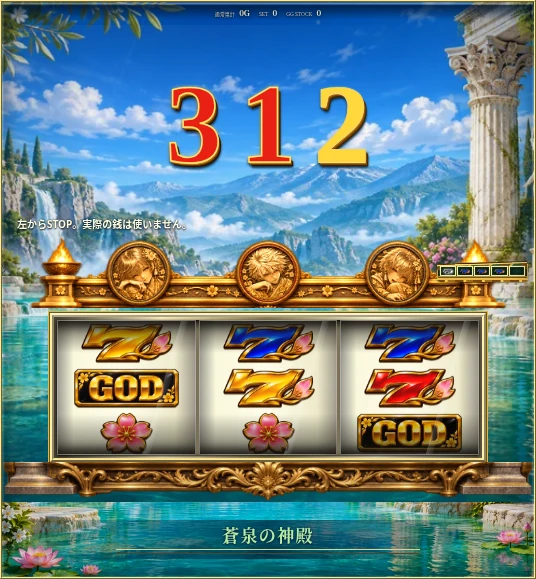
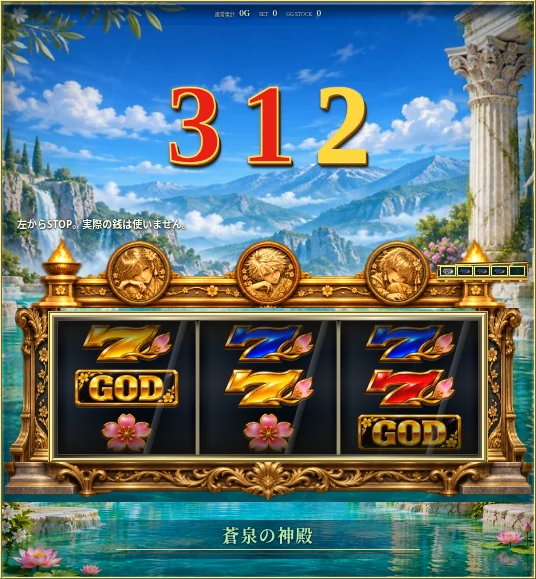
追加の液晶画像に合わせ暗いリール窓と金の柱を再現する

diff --git a/src/changelog.ts b/src/changelog.ts
@@ -31,7 +31,7 @@ export type ChangelogEntry = {
 
 export const CHANGELOG: ChangelogEntry[] = [
   { id: '2026-11-07-kiseki-reference-layout', date: '2026-11-07', kind: 'improve', where: ['社務所Web'], title: '軌跡のリール位置を保ち、三神と小さい右側履歴を調整',
-    items: ['液晶内の赤・金の数字、明るい金属のリール枠を参考写真へ近づけました。', '大きい数字を上、三神と履歴を中段、リールを下寄りに配置しました。', '5マス履歴を三神の右横に小さくまとめ、リール下に細いステージ表示を置きました。', '押し順ナビ・3STOP・確定した履歴や当選結果を維持しています。'],
+    items: ['液晶内の赤・金の数字、暗いリール窓と金属枠、三神から続く柱を参考写真へ近づけました。', '大きい数字を上、三神と履歴を中段、リールを下寄りに配置しました。', '5マス履歴を三神の右横に小さくまとめ、リール下に細いステージ表示を置きました。', '押し順ナビ・3STOP・確定した履歴や当選結果を維持しています。'],
     announcement: { priority: 'none', audience: '運営の無料試遊担当', steps: ['軌跡版の「最新の状態を確認」を開く。', '下寄りの3リール、三神の右横の小さい履歴、最下部のステージ名を確認する。'], postText: '', imagePrompt: '', notes: '追加の全台写真に合わせた画面修正。抽選・払出・凱旋・一般公開・銭接続は変更しない。' } },
   { id: '2026-11-07-kiseki-trail-layout', date: '2026-11-07', kind: 'fix', where: ['社務所Web'], title: '軌跡の5マス履歴をリール上の金枠に沿う位置へ修正',
     items: ['数字直下に浮いていた履歴を小さくし、リール上部の装飾に沿う右側へ配置しました。', '数字と結果文の領域を分け、画面幅や告知の有無で履歴が移動しないようにしました。'],

diff --git a/src/web/public/kiseki-trial.css b/src/web/public/kiseki-trial.css
@@ -356,3 +356,8 @@
 .kt-root.kt-reference-layout .gt-display .gt-lcd .gt-lcd-award>span{font-size:clamp(9px,2.7cqw,14px);line-height:1.15;margin:0}
 .kt-root.kt-reference-layout .gt-display .kt-award-digits{padding:0;gap:10px}
 .kt-root.kt-reference-layout .gt-display .kt-award-digits b{font-size:clamp(16px,6cqw,30px);line-height:1.1}
+/* 追加の液晶写真：暗いリール窓と、その左右の連続した金の柱。 */
+.kt-root.kt-reference-layout .kt-reel-assembly:before{content:'';position:absolute;inset:27% 0 15%;z-index:1;pointer-events:none;background:url('/static/kiseki-media-altar-1200.webp') center 60%/100% 240% no-repeat;clip-path:polygon(0 0,11% 0,11% 100%,0 100%,0 0,100% 0,89% 0,89% 100%,100% 100%,100% 0)}
+.kt-root.kt-reference-layout .gt-display .kt-reel-assembly .gt-symbol{background:linear-gradient(90deg,#030609,#17202a 9%,#050a10 43% 70%,#121922 93%,#020509)}
+.kt-root.kt-reference-layout .gt-display .kt-reel-assembly .gt-reels{gap:3px;background:linear-gradient(90deg,#f7e9b3,#655937,#fff5d4,#746743,#eee3b7)}
+.kt-root.kt-reference-layout .gt-display .kt-reel-assembly .gt-reel{box-shadow:inset 0 0 0 1px #f8e9bb}

diff --git a/docs/work-notes.md b/docs/work-notes.md
@@ -15,6 +15,15 @@
 
 - 本人の追加指示「横のとげとげみたいのはいらないなあ」。液晶両端に追加した神殿風のとげ状装飾（gt-display:before）を削除し、リール枠と既存装飾だけ残す。外装には触れない。型/build/関連4ファイル28件は直前の液晶限定版で成功。装飾削除後は液晶見本と通常表示を更新する。
 
+- 本人が三神/大きな3段リール/左右の柱/下部の金装飾が見える追加の液晶画像を提示し「再現してみて」。下寄りの位置と外装維持/とげ不要を継続し、液晶内の三神〜リール〜ステージ部分の比率と造形をさらに寄せる。以前の全台写真では見えにくかった領域の新しい基準として扱う。追加実装前の現在地は4e37a884、全件は前案の実行中で新案と区別。
+
+- 追加画像への対応：リールの窓内を暗色へ変更して独自の7/GOD絵柄を見せ、既存の三神素材の柱部分を液晶内のリール左右へ接続。下部は既存素材の金装飾を使用。これは三神/リールをつなぐ柱であり、前に不要と指定された液晶左右のとげ状装飾は戻さない。TSX/抽選/保存には追加変更なし。最終CSSを再確認する。
+
+- 追加画像の最終表示：通常10/当選80/42STOP/4予告/再読込が成功、JS例外0。左右の柱は既存の独自素材をCSSで切抜き、登録済み静的素材のHTTP200も確認。下部に試した単純な柱列は省き、既存の金装飾だけを残して見本を更新する。抽選や本人保存の追加変更なし。
+
+- 検証完了：Node22型成功、最終関連4ファイル28件成功（20.53秒）、build成功。単一全256ファイル2,839件成功（706.17秒、2worker、既定制限）。全件はTSX固定後に開始し、途中の変更はCSS/文書/見本のみ。最終CSSで通常10表示と見本を再確認、柱追加版で当選80/42STOP/4予告を再検証。最終は下部の装飾用擬似要素のみ除去し、CSSをビルド先へ再コピー、一致を確認する。ログ/tmp/kiseki-photo-{all,types,build}.log、/tmp/kiseki-photo-lcd-{types,related,build-latest,browser-final,controls-latest,awards-latest,screens-final}.log。
+- 保存前：本番76181e4cへfetch、merge-tree exit0で競合なし。ローカル全件はa6568a53基点であり、最新本番との結合CIはPRで確認する。PR159の前回head ea0e5681は両test成功を確認済み。今回の追加はcodex/kiseki-reel-firstへpushしPR159を更新する。新CIは別の未完了結果として扱う。未合流/本番未反映。
+
 ## 2026年11月7日：実機全体写真に合わせ三神・リール・ステージの上下構成を修正
 - 初期案（後に撤回）：本人の全体写真と「それなおして」。切抜き履歴画像を大きなパネルと解釈した前提を撤回。三神直下の大きな3リール、その下のステージ背景/名称、三神右横の小さい5マス履歴へ組み替える。
 - 開始：本番a6568a53からcodex/kiseki-reel-first。過去handoff保持、tree clean。本人の三神/独自図柄/履歴内容/押し順/確定結果/抽選/払出/凱旋を維持。一般公開/銭接続/今回の合流は保留。

diff --git a/docs/kiseki-trial.md b/docs/kiseki-trial.md
@@ -8,7 +8,7 @@
 
 押し順ナビ・目押し/補助・途中保存・履歴の更新・当選の権利は従来どおりです。背景6種類や実機の全抽選/BGMを追加したものではありません。以下の「初版」「一体化後」の画像は以前の構成の記録です。
 
-液晶内に限り、赤/金の数字、明るい金属のリール枠、最下部の風景を追加調整しています。外枠・上部パネル・操作部・腰ロゴは維持。本人の三神も維持し、左右のとげ状装飾は置きません。液晶だけの架空台の見本は `docs/previews/kiseki-photo-lcd-{390,630}.webp`。数字312は色の比較用の固定表示であり、実際の抽選結果ではありません。写真1枚で確認できない動画・音の同一性は未検証です。
+液晶内に限り、赤/金の数字、明るい金属のリール枠と暗いリール窓、三神から続く柱と下部の金装飾、最下部の風景を追加調整しています。外枠・上部パネル・操作部・腰ロゴは維持。本人の三神も維持し、左右のとげ状装飾は置きません。液晶だけの架空台の見本は `docs/previews/kiseki-photo-lcd-{390,630}.webp`。数字312は色の比較用の固定表示であり、実際の抽選結果ではありません。写真1枚で確認できない動画・音の同一性は未検証です。
 
 ## 入口と保存
 

diff --git a/docs/admin.md b/docs/admin.md
@@ -2702,3 +2702,5 @@ JavaScriptの操作では、保存後の結果画面をPOSTの応答で直接受
 大きい数字を上、三神と小さい右側5マスを中段、リールを元の下寄り、その下に細いステージ表示という並びにしました。三神と金枠は既存の独自素材を使い、数字や結果文と履歴が重ならないようにしています。押し順ナビと3STOPは従来どおり使えます。履歴内容・抽選・払出・本人保存・凱旋版は変更しません。
 
 参考写真へ近づける対象は液晶内だけです。通常数字の色と縁を赤/金へ調整し、リール枠は明るい金属色、リール下のステージには区間に対応する独自の風景を表示します。液晶左右のとげ状装飾は置かず、リール周りの金枠を残します。外枠・上部パネル・操作部・腰ロゴは変更しません。
+
+追加の液晶画像に合わせ、リール窓を暗色にし、三神の既存素材の柱をリール左右へつないでいます。リール下には金の柱列を置き、前に削除した液晶両端のとげ状装飾は付けません。

diff --git a/docs/user-decisions.md b/docs/user-decisions.md
@@ -1,3 +1,6 @@
+## 2026年11月7日：三神とリール周辺の追加画像を基準にする
+- 三神/大きな3段リール/左右の柱/下部金装飾が見える液晶画像を新たな造形基準にする。リール下側/液晶のみ/左右のとげ不要は維持。
+
 ## 2026年11月7日：液晶左右のとげ状装飾は不要
 - 本人の指摘により、今回追加した左右のとげ状の金装飾は削除。リール周りの金枠は維持。
 
